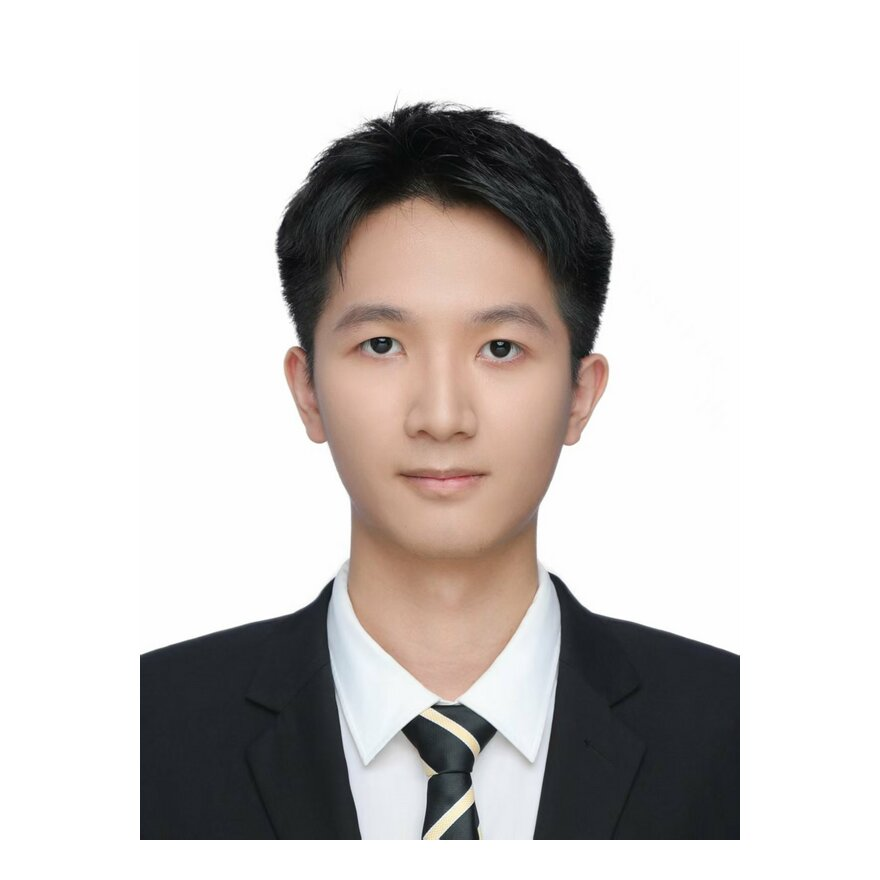
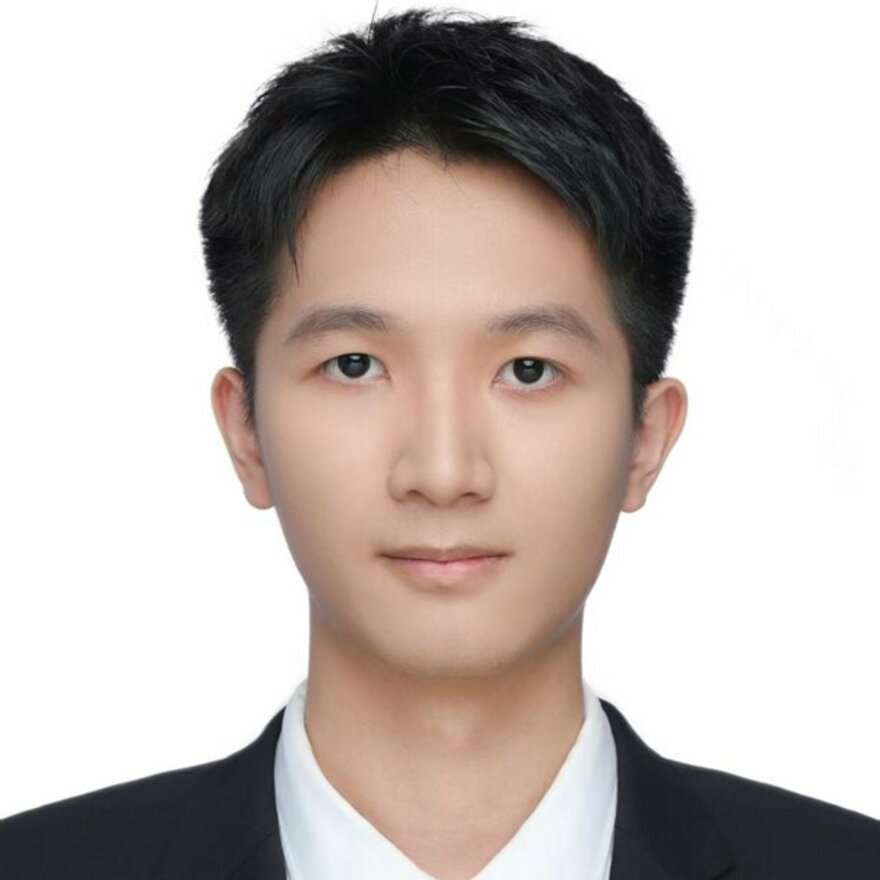
updata data

diff --git a/src/data/team.ts b/src/data/team.ts
@@ -397,4 +397,25 @@ export const team: TeamMember[] = [
     personal: 'Fitness and gaming.',
     personalZh: '健身、电子游戏。',
   },
+    {
+    slug: 'zhishan-zou',
+    name: 'Zhishan Zou',
+    nameZh: '邹志山',
+    publicationNames: ['Zhishan Zou', '邹志山', 'Jackson Chou'],
+    role: 'Master Student',
+    roleZh: '硕士研究生',
+    img: '/assets/team/zhishan-zou.jpeg',
+    desc: 'BUPT, School of Information and Communication Engineering Master Candidate.',
+    descZh: '北京邮电大学信息与通信工程学院硕士研究生',
+    homepage:"https://choucisan.github.io",
+    email: 'choucisan@gmail.com',
+    scholar:"https://scholar.google.com/citations?user=MLkojp4AAAAJ&hl=en",
+    github: 'https://github.com/choucisan',
+    huggingface:"https://huggingface.co/choucsan",
+    linkedin:"https://www.linkedin.com/in/zhishan-zou-266b90422",
+    honors: [""],
+    honorsZh: [""],
+    personal: '',
+    personalZh: '',
+  },
 ];
